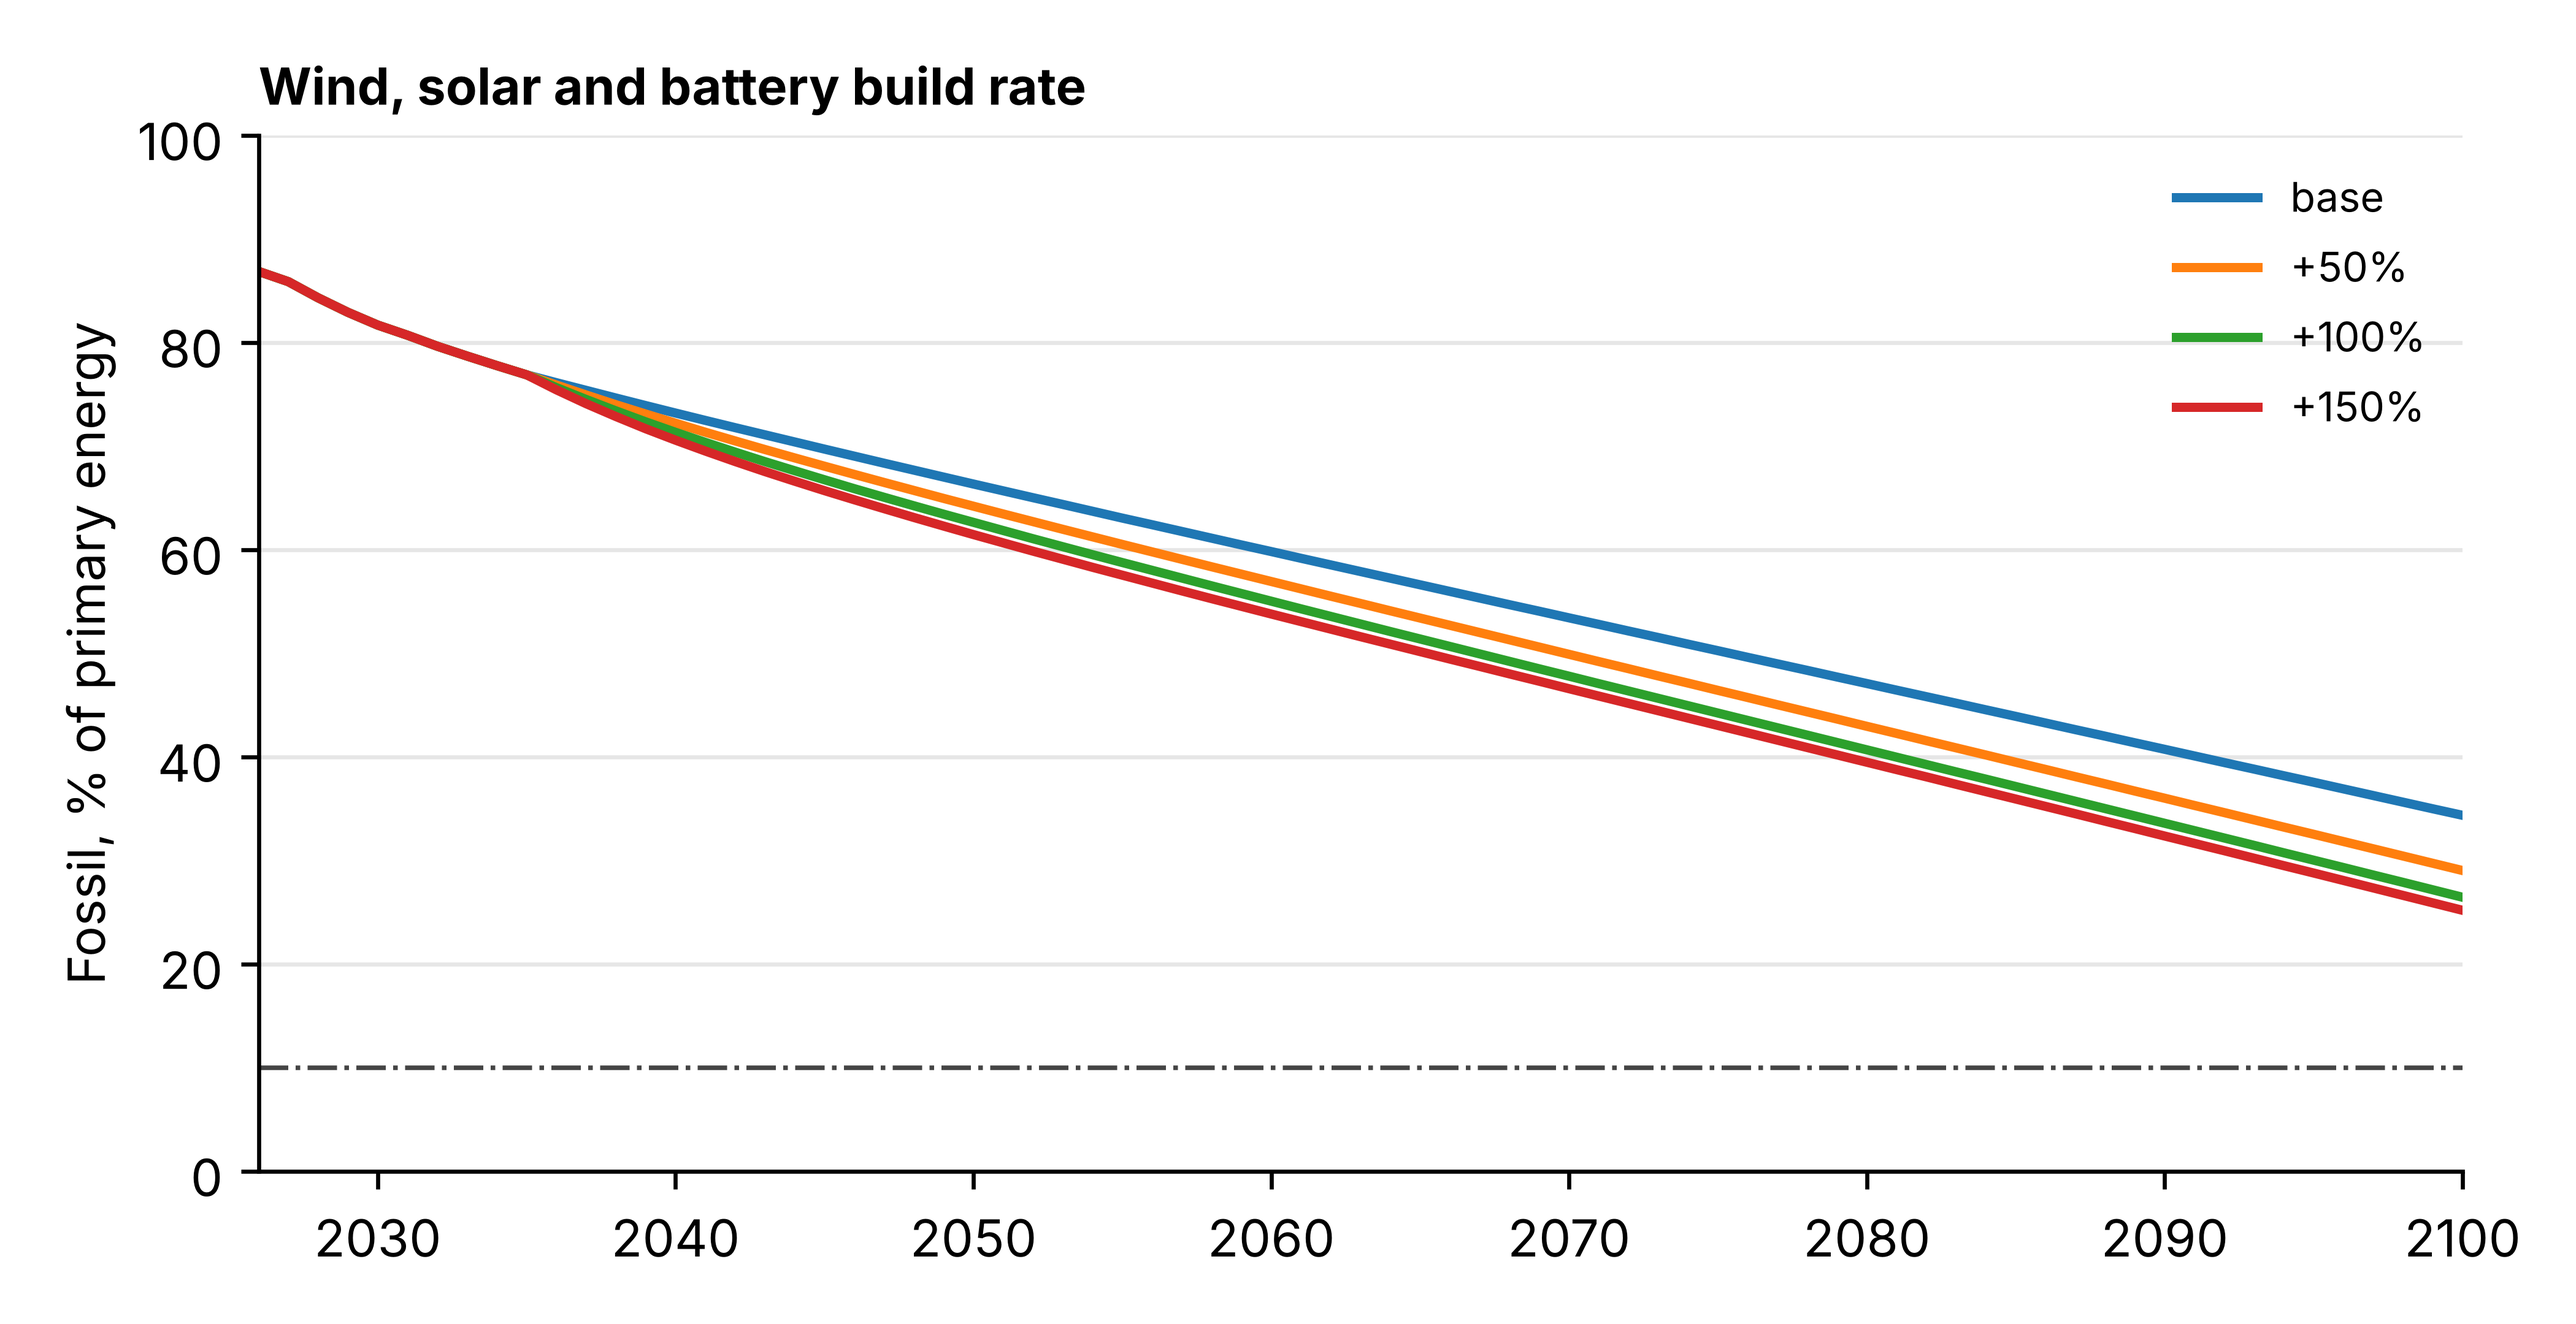
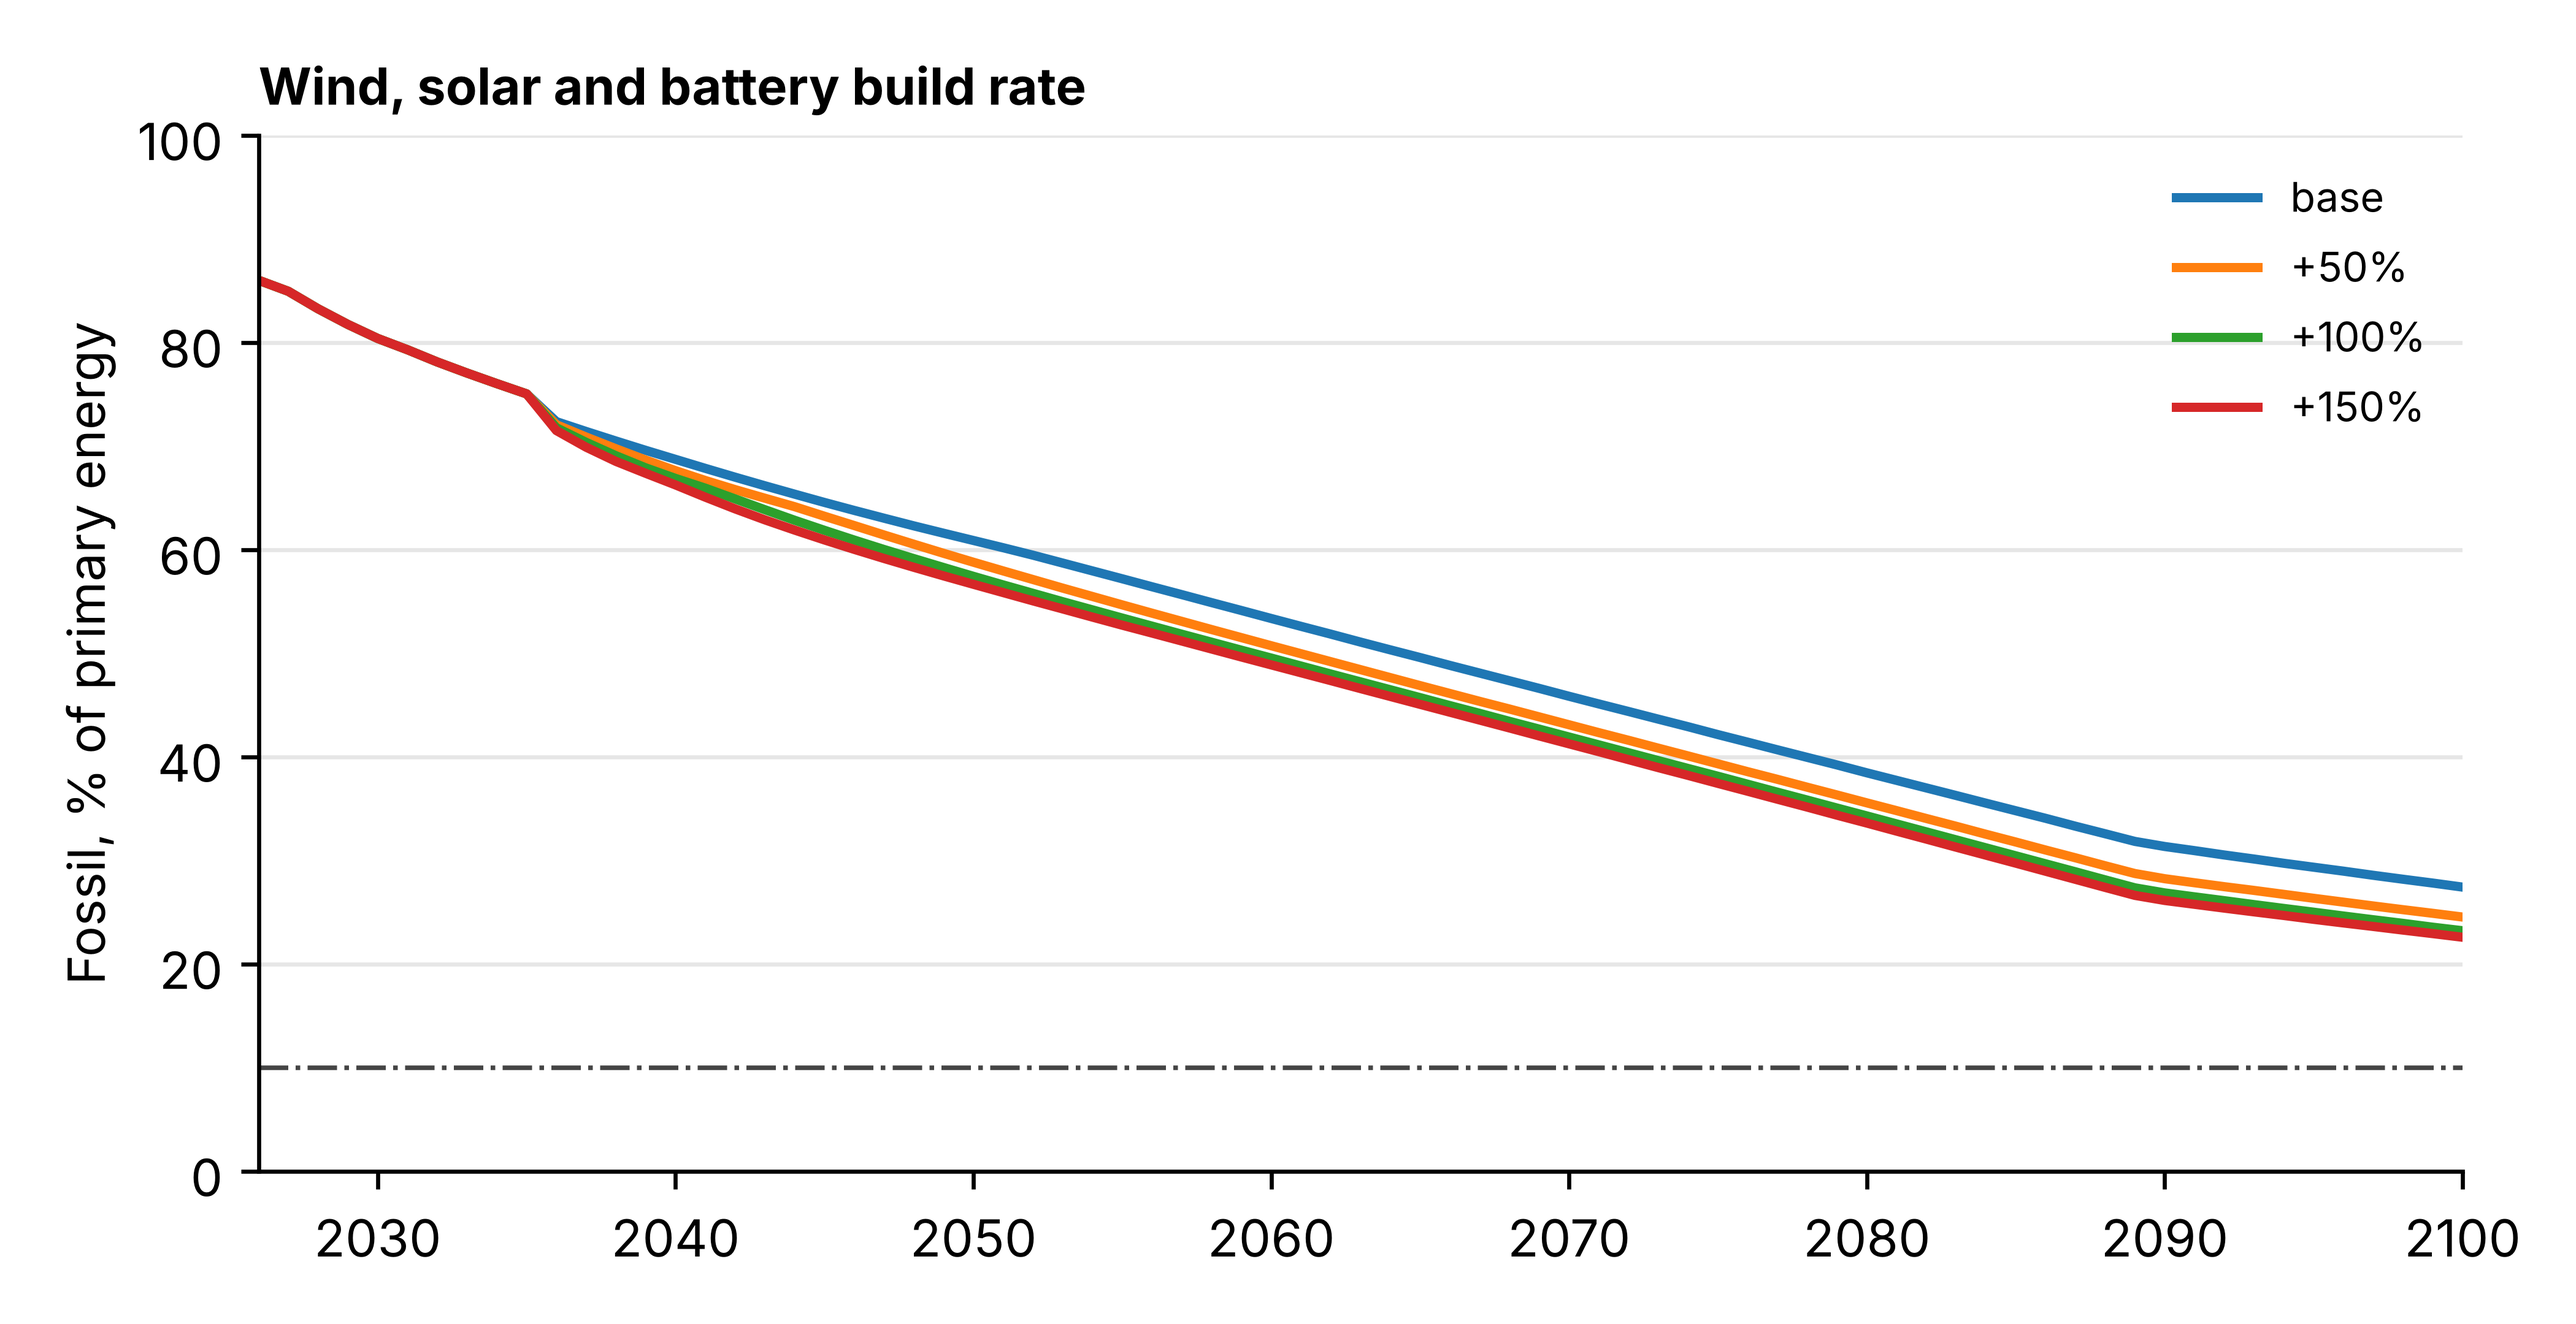
Rerun sensitivity study on current main
Base case now matches EirGrid_Extended in the paper (PRs #25, #30, #37).
Supplementary S7, Tables S9 to S12. No model change.

Claude-Session: https://claude.ai/code/session_011KZyodE8DBT6XpFXtit4rx

Changed region(s): [[0.1871, 0.2792, 0.9669, 0.7134], [0.0936, 0.1861, 0.1871, 0.2792]]

diff --git a/analysis/output/sensitivity/sensitivity_tables.md b/analysis/output/sensitivity/sensitivity_tables.md
@@ -2,34 +2,34 @@
 
 | change   |   demand_TWh |   wind_GW |   solar_GW |   fossil_pct |   renewable_pct |   constraint_pct |   curtailment_pct |   wind_cf_pct |   solar_cf_pct |   firm_GW |
 |:---------|-------------:|----------:|-----------:|-------------:|----------------:|-----------------:|------------------:|--------------:|---------------:|----------:|
-| base     |         64.3 |      24.6 |       20.6 |         66.3 |            29.7 |               25 |              17.4 |          17.1 |            5.1 |      12.7 |
-| +50%     |         67.7 |      24.6 |       20.6 |         62.3 |            33.7 |               25 |              15.9 |          17.7 |            5.2 |      13.7 |
-| +100%    |         71   |      24.6 |       20.6 |         57.9 |            38.1 |               25 |              14.5 |          18.2 |            5.3 |      14.7 |
-| +150%    |         74.4 |      24.6 |       20.6 |         53.3 |            42.7 |               25 |              13.2 |          18.7 |            5.4 |      15.7 |
+| base     |         64.3 |      24.6 |       20.6 |         60.9 |            35.1 |                0 |              35.2 |          16.5 |            7.2 |      12.7 |
+| +50%     |         67.7 |      24.6 |       20.6 |         55.5 |            40.5 |                0 |              33   |          17.1 |            7.4 |      13.7 |
+| +100%    |         71   |      24.6 |       20.6 |         49.8 |            46.2 |                0 |              31   |          17.7 |            7.6 |      14.7 |
+| +150%    |         74.4 |      24.6 |       20.6 |         43.6 |            52.4 |                0 |              29.1 |          18.2 |            7.8 |      15.7 |
 
 ### Heat and transport electrification pace, 2100
 
 | change   |   demand_TWh |   wind_GW |   solar_GW |   fossil_pct |   renewable_pct |   constraint_pct |   curtailment_pct |   wind_cf_pct |   solar_cf_pct |   firm_GW |
 |:---------|-------------:|----------:|-----------:|-------------:|----------------:|-----------------:|------------------:|--------------:|---------------:|----------:|
-| base     |        107.3 |      58.3 |       56.6 |         34.4 |            61.6 |             33.8 |              23   |          13.5 |            3.1 |      21.3 |
-| +50%     |        112.2 |      58.3 |       56.6 |         25.1 |            70.9 |             33.8 |              21.8 |          13.9 |            3.2 |      23.6 |
-| +100%    |        112.6 |      58.3 |       56.6 |         21.4 |            74.6 |             33.8 |              21.8 |          13.9 |            3.2 |      24.3 |
-| +150%    |        110.5 |      58.3 |       56.6 |         20.8 |            75.2 |             33.8 |              22.4 |          13.7 |            3.1 |      23.9 |
+| base     |        104.1 |      58.3 |       56.6 |         27.4 |            68.6 |                0 |              53.9 |          12.2 |            4.7 |      20.7 |
+| +50%     |        107.6 |      58.3 |       56.6 |         18.5 |            77.5 |                0 |              52.7 |          12.5 |            4.7 |      22.8 |
+| +100%    |        108   |      58.3 |       56.6 |         14.6 |            81.4 |                0 |              52.7 |          12.5 |            4.7 |      23.5 |
+| +150%    |        105.9 |      58.3 |       56.6 |         14.2 |            81.8 |                0 |              53.5 |          12.4 |            4.6 |      23.2 |
 
 ### Wind, solar and battery build rate, 2050
 
 | change   |   demand_TWh |   wind_GW |   solar_GW |   fossil_pct |   renewable_pct |   constraint_pct |   curtailment_pct |   wind_cf_pct |   solar_cf_pct |   firm_GW |
 |:---------|-------------:|----------:|-----------:|-------------:|----------------:|-----------------:|------------------:|--------------:|---------------:|----------:|
-| base     |         64.3 |      24.6 |       20.6 |         66.3 |            29.7 |             25   |              17.4 |          17.1 |            5.1 |      12.7 |
-| +50%     |         64.3 |      29.7 |       26   |         64.2 |            31.8 |             28.1 |              21.6 |          15.1 |            4.3 |      12.7 |
-| +100%    |         64.3 |      34.7 |       31.4 |         62.6 |            33.4 |             30.5 |              24.9 |          13.4 |            3.7 |      12.6 |
-| +150%    |         64.3 |      39.8 |       36.8 |         61.5 |            34.5 |             32.5 |              27.6 |          12.1 |            3.2 |      12.5 |
+| base     |         64.3 |      24.6 |       20.6 |         60.9 |            35.1 |                0 |              35.2 |          16.5 |            7.2 |      12.7 |
+| +50%     |         64.3 |      29.7 |       26   |         58.8 |            37.2 |                0 |              44.2 |          14.3 |            6   |      12.7 |
+| +100%    |         64.3 |      34.7 |       31.4 |         57.4 |            38.6 |                0 |              51.6 |          12.6 |            5.1 |      12.6 |
+| +150%    |         64.3 |      39.8 |       36.8 |         56.7 |            39.3 |                0 |              57.6 |          11.2 |            4.5 |      12.5 |
 
 ### Wind, solar and battery build rate, 2100
 
 | change   |   demand_TWh |   wind_GW |   solar_GW |   fossil_pct |   renewable_pct |   constraint_pct |   curtailment_pct |   wind_cf_pct |   solar_cf_pct |   firm_GW |
 |:---------|-------------:|----------:|-----------:|-------------:|----------------:|-----------------:|------------------:|--------------:|---------------:|----------:|
-| base     |        107.3 |      58.3 |       56.6 |         34.4 |            61.6 |             33.8 |              23   |          13.5 |            3.1 |      21.3 |
-| +50%     |        107.3 |      80.2 |       80.1 |         29   |            67   |             38   |              28.8 |          10.5 |            2.2 |      20.9 |
-| +100%    |        107.3 |     102   |      103.6 |         26.4 |            69.6 |             40.8 |              32.4 |           8.7 |            1.7 |      20.6 |
-| +150%    |        107.3 |     123.9 |      127   |         25.2 |            70.8 |             42.9 |              34.8 |           7.4 |            1.4 |      20.2 |
+| base     |        104.1 |      58.3 |       56.6 |         27.4 |            68.6 |                0 |              53.9 |          12.2 |            4.7 |      20.7 |
+| +50%     |        104.1 |      80.2 |       80.1 |         24.5 |            71.5 |                0 |              66.2 |           9.3 |            3.4 |      20.4 |
+| +100%    |        104.1 |     102   |      103.6 |         23.2 |            72.8 |                0 |              73.5 |           7.5 |            2.7 |      20   |
+| +150%    |        104.1 |     123.9 |      127   |         22.6 |            73.4 |                0 |              78.2 |           6.3 |            2.2 |      16.5 |

diff --git a/CHANGELOG.md b/CHANGELOG.md
@@ -3,6 +3,20 @@
 Handover record of changes to `DemonstratorV2.py` and its data builder `build_all_island_dd.py`.
 The full methodology is in `Technical_Briefing_README.docx`.
 
+## Sensitivity study rerun on current main: 7 November 2026
+
+No model change. `python analysis/sensitivity_study.py` rerun on `main` (bdac59b), so the base case now matches EirGrid_Extended in the paper (PRs #25, #30 and #37 included). Outputs in `analysis/output/sensitivity/`. Supplementary Section S7, Tables S9 to S12.
+
+| EirGrid_Extended, fossil share of primary energy (%) | Before (30 Oct) | Now |
+|---|---|---|
+| Base, 2050 / 2100 | 66.3 / 34.4 | 60.9 / 27.4 |
+| Heat and transport electrification +50 / +100 / +150%, 2050 | 62.3 / 57.9 / 53.3 | 55.5 / 49.8 / 43.6 |
+| Same, 2100 | 25.1 / 21.4 / 20.8 | 18.5 / 14.6 / 14.2 |
+| Wind, solar and battery build +50 / +100 / +150%, 2050 | 64.2 / 62.6 / 61.5 | 58.8 / 57.4 / 56.7 |
+| Same, 2100 | 29.0 / 26.4 / 25.2 | 24.5 / 23.2 / 22.6 |
+
+Constraint is now zero in 2050 and 2100 (no zonal limits from 2036), so the extra build shows up as curtailment: 35.2% of available output in the base case and 57.6% with build +150% in 2050. Firm capacity in 2100 with build +150% is 16.5 GW, against 20.0 GW at +100% and 20.7 GW in the base case; the cause of that step has not been checked.
+
 ## Gas: annual use against the worst day, and an interconnector sensitivity: 7 November 2026
 
 No change to the main runs. New script `analysis/figure8_gas.py` draws paper Figure 8 (annual gas use; worst gas day against supply) from the main outputs and from a run with `GAMMA_IC_DISPATCH=1`. Paper Section 7.5.
